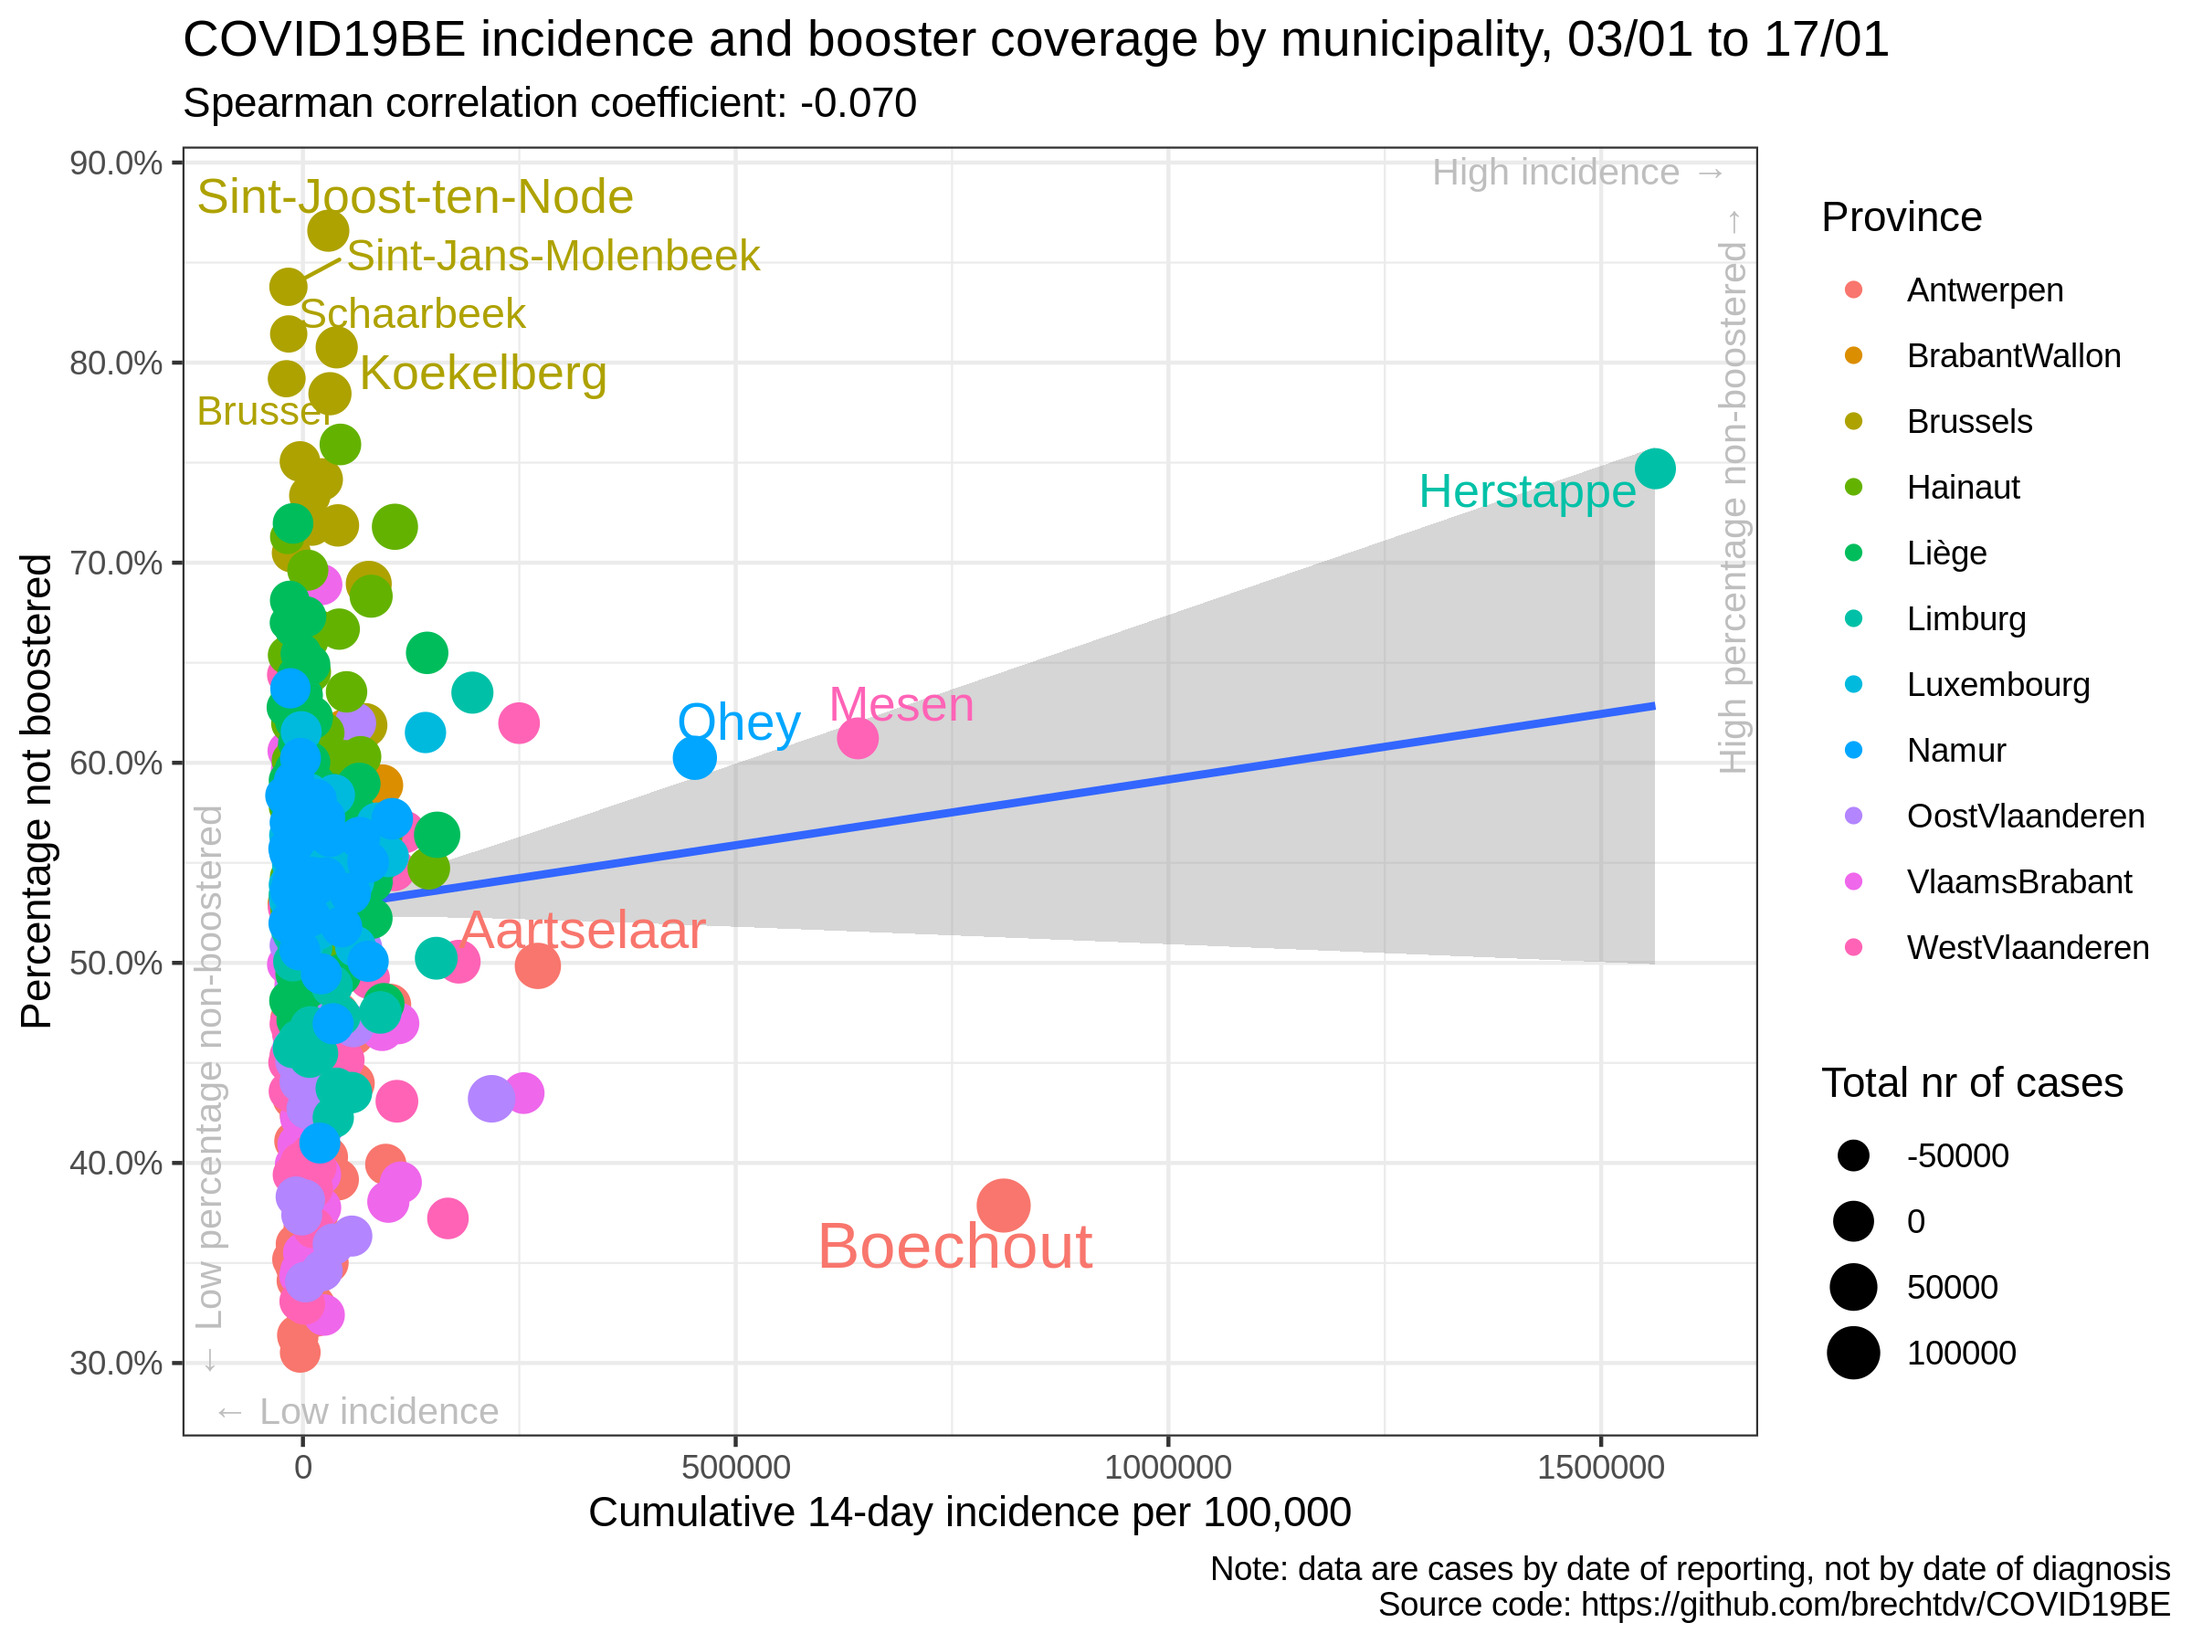
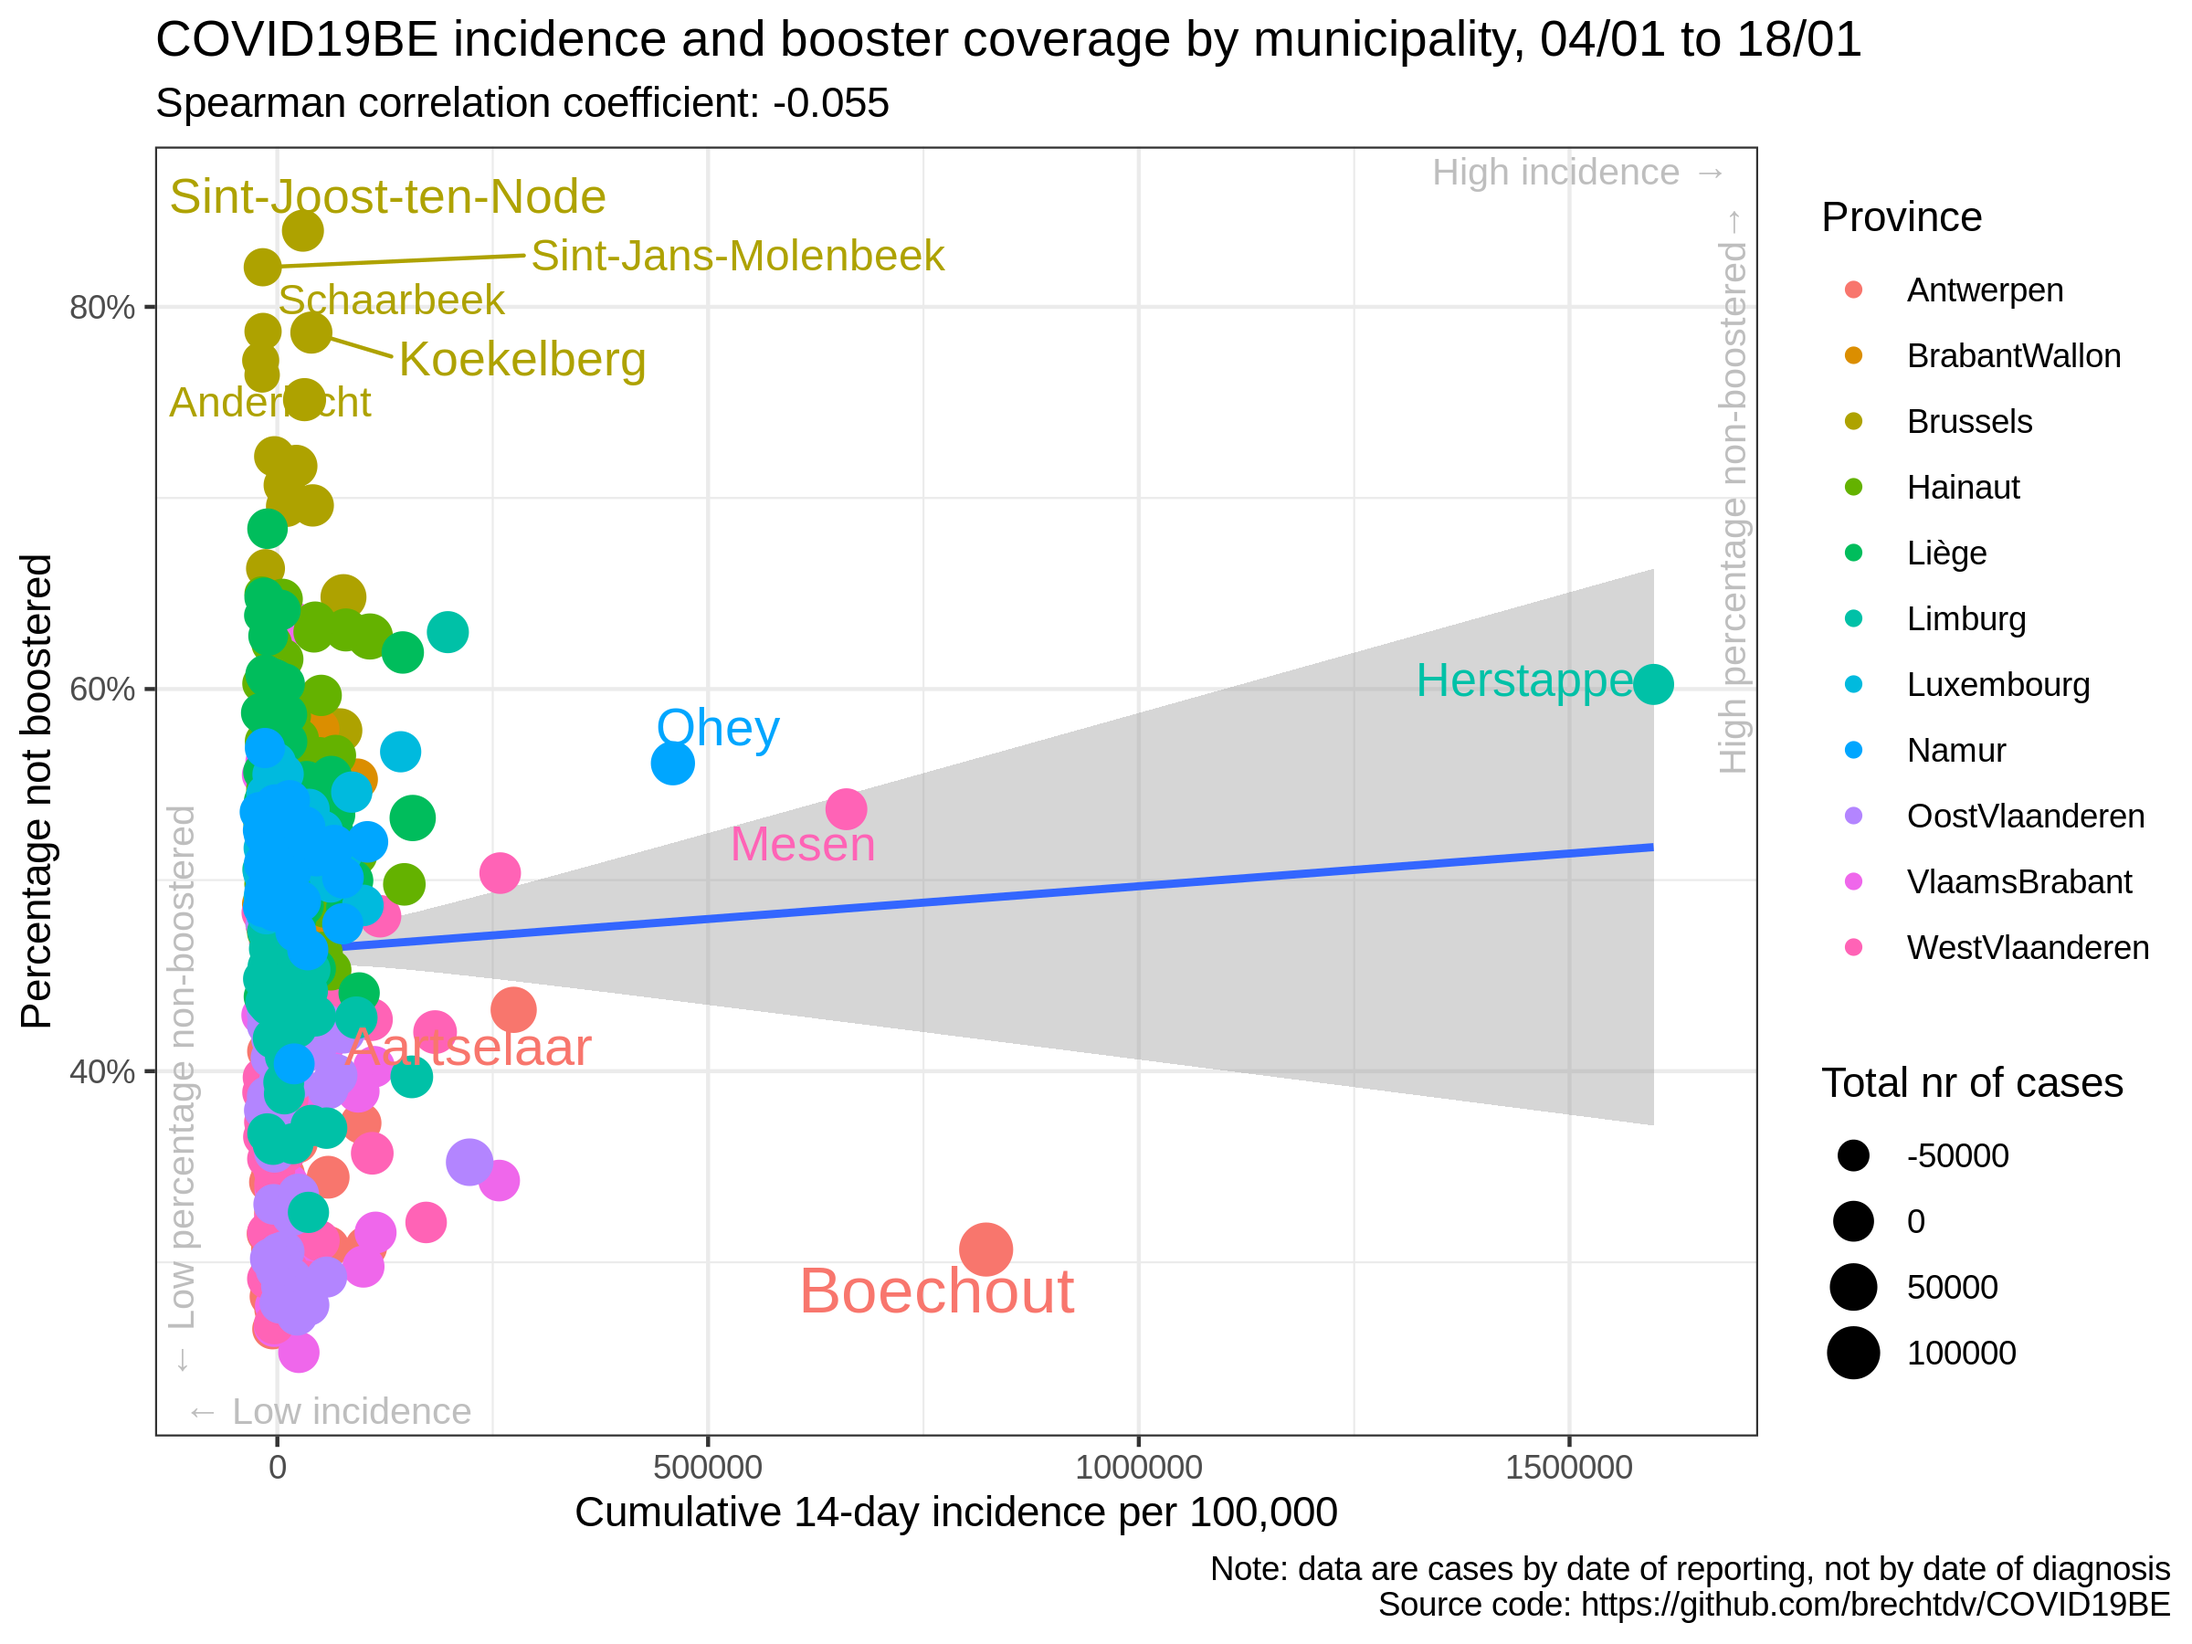
update situation

diff --git a/vaccination/README.md b/vaccination/README.md
@@ -17,35 +17,35 @@
 
 |                | estimate.rho | p.value |
 | :------------- | -----------: | ------: |
-| Antwerpen      |      \-0.180 |   0.139 |
-| BrabantWallon  |        0.257 |   0.195 |
-| Brussels       |      \-0.365 |   0.125 |
-| Hainaut        |      \-0.026 |   0.834 |
-| Liège          |      \-0.155 |   0.159 |
-| Limburg        |      \-0.228 |   0.147 |
-| Luxembourg     |        0.098 |   0.525 |
-| Namur          |        0.111 |   0.507 |
-| OostVlaanderen |      \-0.262 |   0.044 |
-| VlaamsBrabant  |      \-0.212 |   0.091 |
-| WestVlaanderen |        0.197 |   0.119 |
-| Belgium        |      \-0.052 |   0.213 |
+| Antwerpen      |      \-0.182 |   0.133 |
+| BrabantWallon  |        0.269 |   0.174 |
+| Brussels       |      \-0.354 |   0.137 |
+| Hainaut        |      \-0.027 |   0.824 |
+| Liège          |      \-0.154 |   0.163 |
+| Limburg        |      \-0.227 |   0.149 |
+| Luxembourg     |        0.099 |   0.523 |
+| Namur          |        0.128 |   0.443 |
+| OostVlaanderen |      \-0.273 |   0.035 |
+| VlaamsBrabant  |      \-0.215 |   0.085 |
+| WestVlaanderen |        0.201 |   0.112 |
+| Belgium        |      \-0.052 |   0.210 |
 
 ### Correlation cumulative incidence vs booster rate
 
 |                | estimate.rho | p.value |
 | :------------- | -----------: | ------: |
-| Antwerpen      |        0.045 |   0.713 |
-| BrabantWallon  |        0.292 |   0.140 |
-| Brussels       |      \-0.407 |   0.085 |
-| Hainaut        |        0.021 |   0.866 |
-| Liège          |      \-0.252 |   0.021 |
-| Limburg        |      \-0.216 |   0.170 |
-| Luxembourg     |      \-0.077 |   0.620 |
-| Namur          |      \-0.206 |   0.213 |
-| OostVlaanderen |      \-0.203 |   0.120 |
-| VlaamsBrabant  |      \-0.287 |   0.021 |
-| WestVlaanderen |        0.101 |   0.424 |
-| Belgium        |      \-0.070 |   0.092 |
+| Antwerpen      |      \-0.086 |   0.483 |
+| BrabantWallon  |        0.322 |   0.102 |
+| Brussels       |      \-0.411 |   0.082 |
+| Hainaut        |      \-0.015 |   0.900 |
+| Liège          |      \-0.215 |   0.050 |
+| Limburg        |      \-0.249 |   0.111 |
+| Luxembourg     |      \-0.004 |   0.978 |
+| Namur          |      \-0.226 |   0.173 |
+| OostVlaanderen |      \-0.238 |   0.068 |
+| VlaamsBrabant  |      \-0.275 |   0.027 |
+| WestVlaanderen |        0.140 |   0.268 |
+| Belgium        |      \-0.055 |   0.183 |
 
 ### Data source
 
